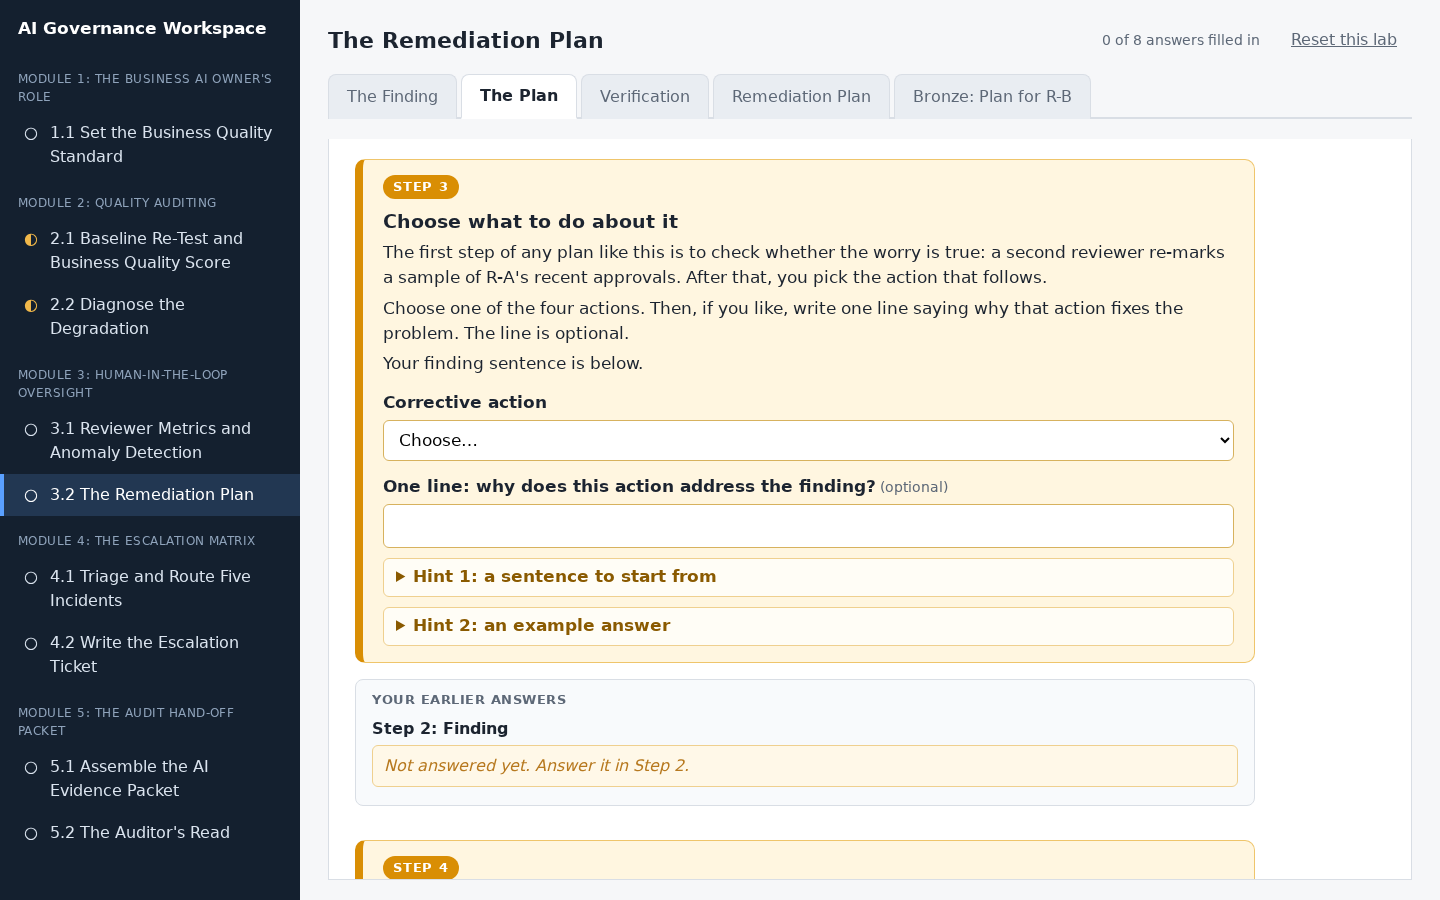
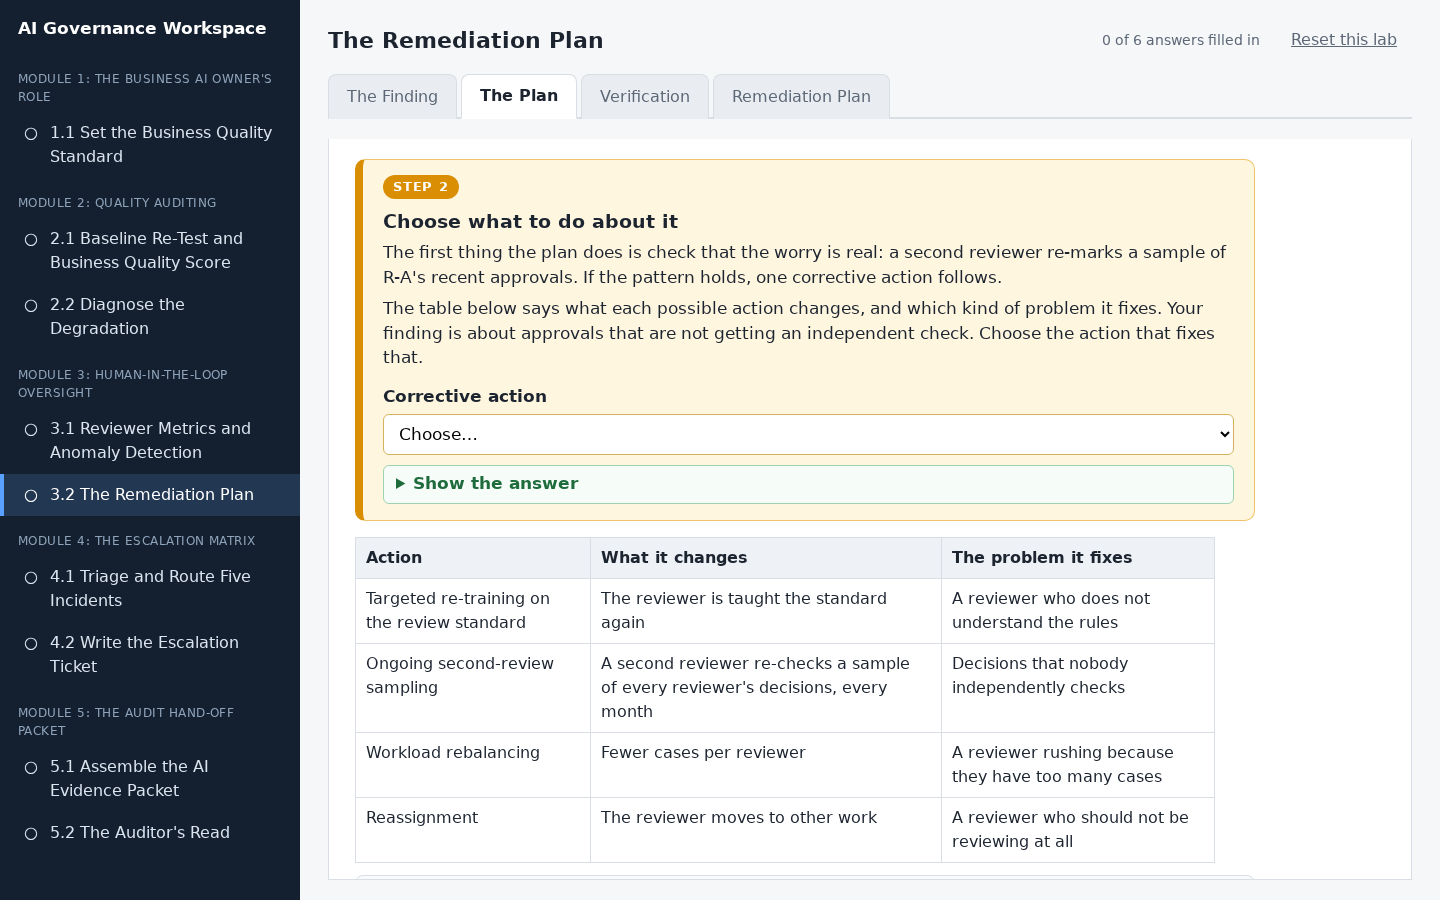
Review Lab 3.2 against the checklist
- Step 1 gives the context (what a remediation plan is, where it goes,
  what makes it count) and merges "name the real problem" and "restate
  the finding" into one choice of finding statement
- The owner step is dropped: Lab 3.1 now decides it, and the report's
  intro states it; the optional "why" line is dropped
- Action, interim safeguard, re-check date, measurable target and
  evidence are drop-downs with plausible wrong options, each with an
  answer that explains why the others are wrong
- The action step shows what each action changes and which problem it
  fixes; the evidence step shows what each data source records
- finding.md now quotes the same override figure students saw in 3.1
  (R-B, 5 of 10 conduct cases) and drops its emphasis bold
- New field ids for every changed question; guide and screenshots updated

Changed region(s): [[0.2188, 0.2489, 0.875, 0.9956], [0.625, 0.0933, 0.75, 0.1244]]

diff --git a/LAB_REFERENCES/lab-3.2-remediation-plan.md b/LAB_REFERENCES/lab-3.2-remediation-plan.md
@@ -4,21 +4,21 @@
 
 **Turn a reviewer-quality finding into a remediation plan with a dated, measurable test of whether the fix worked.**
 
-Most remediation plans name a problem and an intention and stop there, which leaves no way to tell later whether anything improved. In this lab you take a finding about a reviewer whose approvals may not be receiving independent review and write a plan that names the finding, the corrective action, the responsible owner, and (the part that is usually missing) a re-check date and a measurable target. The plan you produce is one of the six components of the Module 5 evidence packet.
+Most remediation plans name a problem and an intention and stop there, which leaves no way to tell later whether anything improved. In this lab you take the finding from Lab 3.1, about a reviewer whose approvals are not getting an independent check, and build the plan one decision at a time: how to state the finding, the corrective action, a temporary safeguard, and (the part that is usually missing) a re-check date, a measurable target, and where the re-check's number will come from. The owner was decided at the end of Lab 3.1. The plan you produce is one of the six components of the Module 5 evidence packet.
 
 In this lab, you will:
-- Restate a finding as a process gap rather than a personal failing
-- Choose a corrective action and justify it
-- Assign an owner by responsibility
-- Define a re-check date, a measurable target, and the evidence the re-check will use
+- State a finding as a checkable gap in a process, not a personal failing
+- Choose the corrective action that fixes that gap, and a safeguard for the meantime
+- Set a re-check date from the workflow's review cadence
+- Tell a measurable target from a vague one, and choose the evidence that will measure it
 
 By the end of this lab you will be able to write a remediation plan an auditor would accept.
 
 ## In Plain Words
 
-- **What you are doing:** In the last lab you found a reviewer, R-A, who almost never disagrees with the AI. Now you will write a plan to fix that.
+- **What you are doing:** In the last lab you found a reviewer, R-A, who almost never disagrees with the AI. Now you will build the plan to fix it, one choice at a time.
 - **Why it matters:** A plan that only says "we will do better" is worth nothing, because nobody can tell later whether it worked. A good plan says who will do what, by when, and what number will show that it worked.
-- **You do not have to:** download anything, open a spreadsheet, or do any maths. Everything you need is in the workspace, and everything you type saves by itself.
+- **You do not have to:** download anything, open a spreadsheet, or do any maths. Every answer is a drop-down menu, and everything you pick saves by itself.
 - **If you feel lost:** in the workspace, every instruction is in a numbered orange box. Do the boxes in order, from the left-most tab to the right-most tab.
 
 **Words you will see in this lab**
@@ -33,39 +33,38 @@ By the end of this lab you will be able to write a remediation plan an auditor w
 
 - If you haven't already done so, click the `WEB PORTS` dropdown in your classroom environment. From that menu click `aux1:2224`.
 - On the page that opens in your browser, click `3.2 The Remediation Plan` in the left sidebar.
-- Then do Step 1 to Step 8 in the workspace. You do not need to keep this page open while you work.
+- Then do Step 1 to Step 6 in the workspace. You do not need to keep this page open while you work.
 
 ## What You Will Do in the Workspace
 
 Everything you do in this lab happens in the workspace.
 
 - The workspace has four tabs. Start on the left-most tab and work to the right. You never need to go back to a tab you have finished.
-- On each tab, work from top to bottom. Every instruction is in an orange box with a step number, from Step 1 to Step 8. Everything outside the orange boxes is the material you need for that step.
-- If a step asks you to answer something, the answer box is inside the orange box.
-- Stuck? Each orange box has hints you can open, and most have a **Show the answer** button.
+- On each tab, work from top to bottom. Every instruction is in an orange box with a step number, from Step 1 to Step 6. Everything outside the orange boxes is the material you need for that step.
+- Every answer is a drop-down menu inside the orange box. It saves by itself. The counter at the top right shows how many answers you have filled in.
+- Stuck? Each orange box has a **Show the answer** button that also explains why the other choices are wrong.
 - At the bottom of each tab, click **Go to the next tab** when you have finished every step on it.
-- Everything you type saves by itself. The counter at the top right shows how many answers you have filled in.
 <!-- challenge section
 - The last tab, Bronze: Plan for R-B, is optional. It does not count towards the counter.
 end challenge section -->
 
-### Tab 1: The Finding (Steps 1 and 2)
+### Tab 1: The Finding (Step 1)
 
 ![The Finding tab, showing Step 1 above the written finding about reviewer R-A](images/lab-3.2/1-the-finding.png)
 
-You read the finding about reviewer R-A, decide what the real problem is, and restate it in one sentence as a gap in the process rather than a fault in one person.
+You read the finding about reviewer R-A and choose how the plan should state it: as a gap in the process, with the numbers, rather than a fault in one person.
 
-### Tab 2: The Plan (Steps 3 to 5)
+### Tab 2: The Plan (Steps 2 and 3)
 
-![The Plan tab, showing Step 3 and the four corrective actions to choose from](images/lab-3.2/2-the-plan.png)
+![The Plan tab, showing Step 2 above a table of the four corrective actions](images/lab-3.2/2-the-plan.png)
 
-You choose a corrective action, name the owner by the job they do, and add a temporary protection that covers the gap until the fix is in place.
+You choose the corrective action that fixes the gap, using a table of what each action changes, and a temporary protection that covers the gap until the fix is in place.
 
-### Tab 3: Verification (Steps 6 to 8)
+### Tab 3: Verification (Steps 4 to 6)
 
-![The Verification tab, showing Step 6 above the review cadence](images/lab-3.2/3-verification.png)
+![The Verification tab, showing Step 4 above PolicyPal's review cadence](images/lab-3.2/3-verification.png)
 
-You set a date to check again, the exact number that will mean the fix worked, and the data that number will come from. This is the part most plans leave out.
+You choose when the fix will be checked, the number that will mean it worked, and the data that number will come from. This is the part most plans leave out.
 
 ### Tab 4: Remediation Plan
 
@@ -83,4 +82,4 @@ end challenge section -->
 
 ## Conclusion
 
-In this lab you turned a reviewer-quality finding into a plan that names the finding, the action, the responsible owner, and a dated, measurable test of whether it worked. That last part is what auditors look for and what most remediation plans lack.
+In this lab you turned a reviewer-quality finding into a plan that states the finding as a checkable process gap, names the corrective action and a safeguard for the meantime, and sets a dated, measurable test of whether it worked, with the evidence that will prove it. That last part is what auditors look for and what most remediation plans lack.

diff --git a/content/lab-3.2/finding.md b/content/lab-3.2/finding.md
@@ -3,9 +3,10 @@
 *A finished finding from a reviewer-metrics analysis of the PolicyPal human-review log
 (30 days, 2026-05-19 to 2026-06-17, 5 reviewers). Supplied for Lab 3.2.*
 
-Reviewer R-A shows a 30-day override rate of **2%** (1 of 42 review decisions) against a
-team average of **18%**. R-A overrode nothing at all in four of the five case types,
-including ones where the other reviewers overrode 15% to 33% of comparable AI decisions,
+Reviewer R-A shows a 30-day override rate of 2% (1 of 42 review decisions) against a
+team average of 18%. R-A overrode nothing at all in four of the five case types,
+even though most of the other reviewers overrode some cases of those same types (R-B, for
+example, overrode 5 of 10 conduct cases),
 and R-A's rate was zero in three of the four weeks. The one exception is a single `pto`
 override in W3. In 27 of R-A's 28 approvals, another reviewer overrode a case of the same
 type in the same week. This pattern is consistent with
